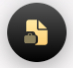
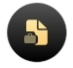
fixed images

diff --git a/index.html b/index.html
@@ -1155,8 +1155,8 @@ opportunities.
 
       <div class="space-y-4">
         <!-- Карточка 1 -->
-        <div class="flex items-start gap-4 p-5 bg-white rounded-2xl shadow-md border border-gray-100">
-          <img src="images/plant.png" alt="Capital Appreciation" class="w-6 h-6 mt-1" />
+        <div class="flex items-center gap-4 p-5 bg-white rounded-2xl shadow-md border border-gray-100">
+          <img src="images/plant.png" alt="Capital Appreciation" class="w-14 h-14 object-contain rounded-xl bg-white p-2 shadow-md" />
           <div>
             <h4 class="font-semibold text-gray-900">Capital Appreciation</h4>
             <p class="text-sm text-gray-600">Watch your investment grow as businesses thrive.</p>
@@ -1164,8 +1164,8 @@ opportunities.
         </div>
 
         <!-- Карточка 2 -->
-        <div class="flex items-start gap-4 p-5 bg-white rounded-2xl shadow-md border border-gray-100">
-          <img src="images/disc.png" alt="Dividends" class="w-6 h-6 mt-1" />
+        <div class="flex items-center gap-4 p-5 bg-white rounded-2xl shadow-md border border-gray-100">
+          <img src="images/disc.png" alt="Dividends" class="w-14 h-14 object-contain rounded-xl bg-white p-2 shadow-md" />
           <div>
             <h4 class="font-semibold text-gray-900">Dividends</h4>
             <p class="text-sm text-gray-600">Receive a part of profits from your equity investments.</p>
@@ -1173,8 +1173,8 @@ opportunities.
         </div>
 
         <!-- Карточка 3 -->
-        <div class="flex items-start gap-4 p-5 bg-white rounded-2xl shadow-md border border-gray-100">
-          <img src="images/file.png" alt="Interest from Business Loans" class="w-6 h-6 mt-1" />
+        <div class="flex items-center gap-4 p-5 bg-white rounded-2xl shadow-md border border-gray-100">
+          <img src="images/file.png" alt="Interest from Business Loans" class="w-14 h-14 object-contain rounded-xl bg-white p-2 shadow-md" />
           <div>
             <h4 class="font-semibold text-gray-900">Interest from Business Loans</h4>
             <p class="text-sm text-gray-600">Earn interest by lending to businesses through tokenized platforms.</p>
@@ -1182,8 +1182,8 @@ opportunities.
         </div>
 
         <!-- Карточка 4 -->
-        <div class="flex items-start gap-4 p-5 bg-white rounded-2xl shadow-md border border-gray-100">
-          <img src="images/wtf.png" alt="Revenue Sharing" class="w-6 h-6 mt-1" />
+        <div class="flex items-center gap-4 p-5 bg-white rounded-2xl shadow-md border border-gray-100">
+          <img src="images/wtf.png" alt="Revenue Sharing" class="w-14 h-14 object-contain rounded-xl bg-white p-2 shadow-md" />
           <div>
             <h4 class="font-semibold text-gray-900">Revenue Sharing</h4>
             <p class="text-sm text-gray-600">Gain a continuous stream of income by sharing in a company’s success.</p>
